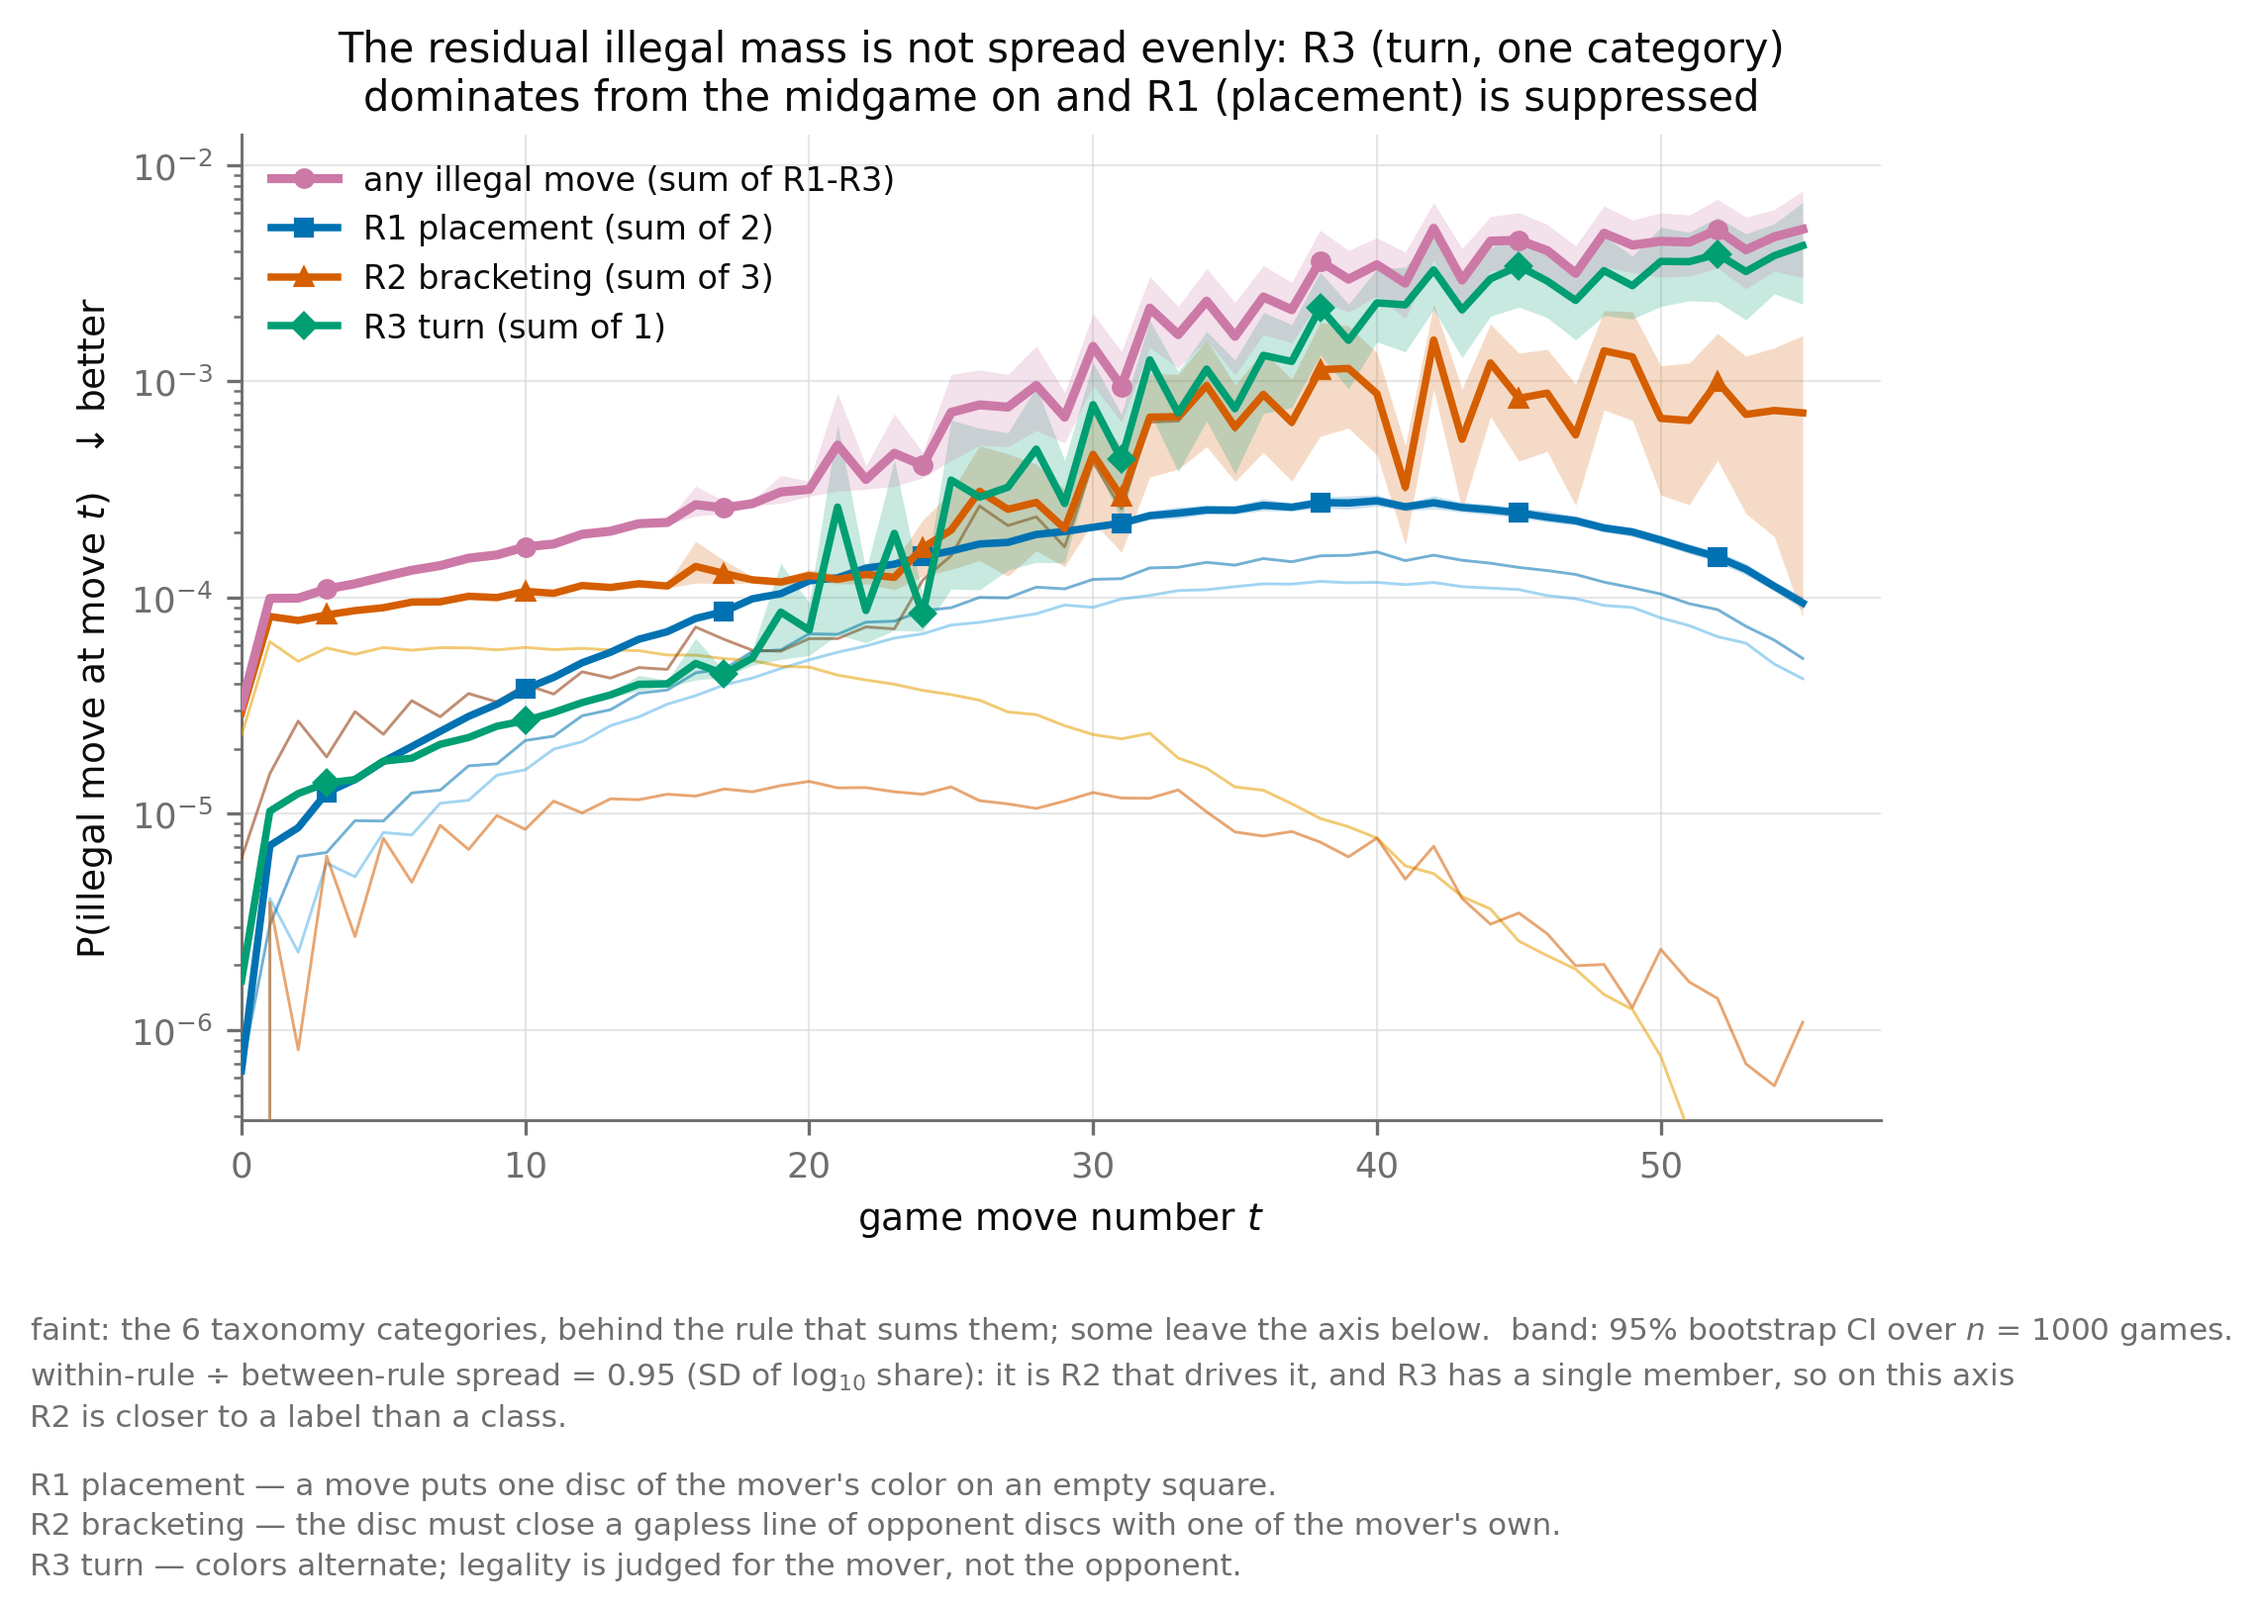
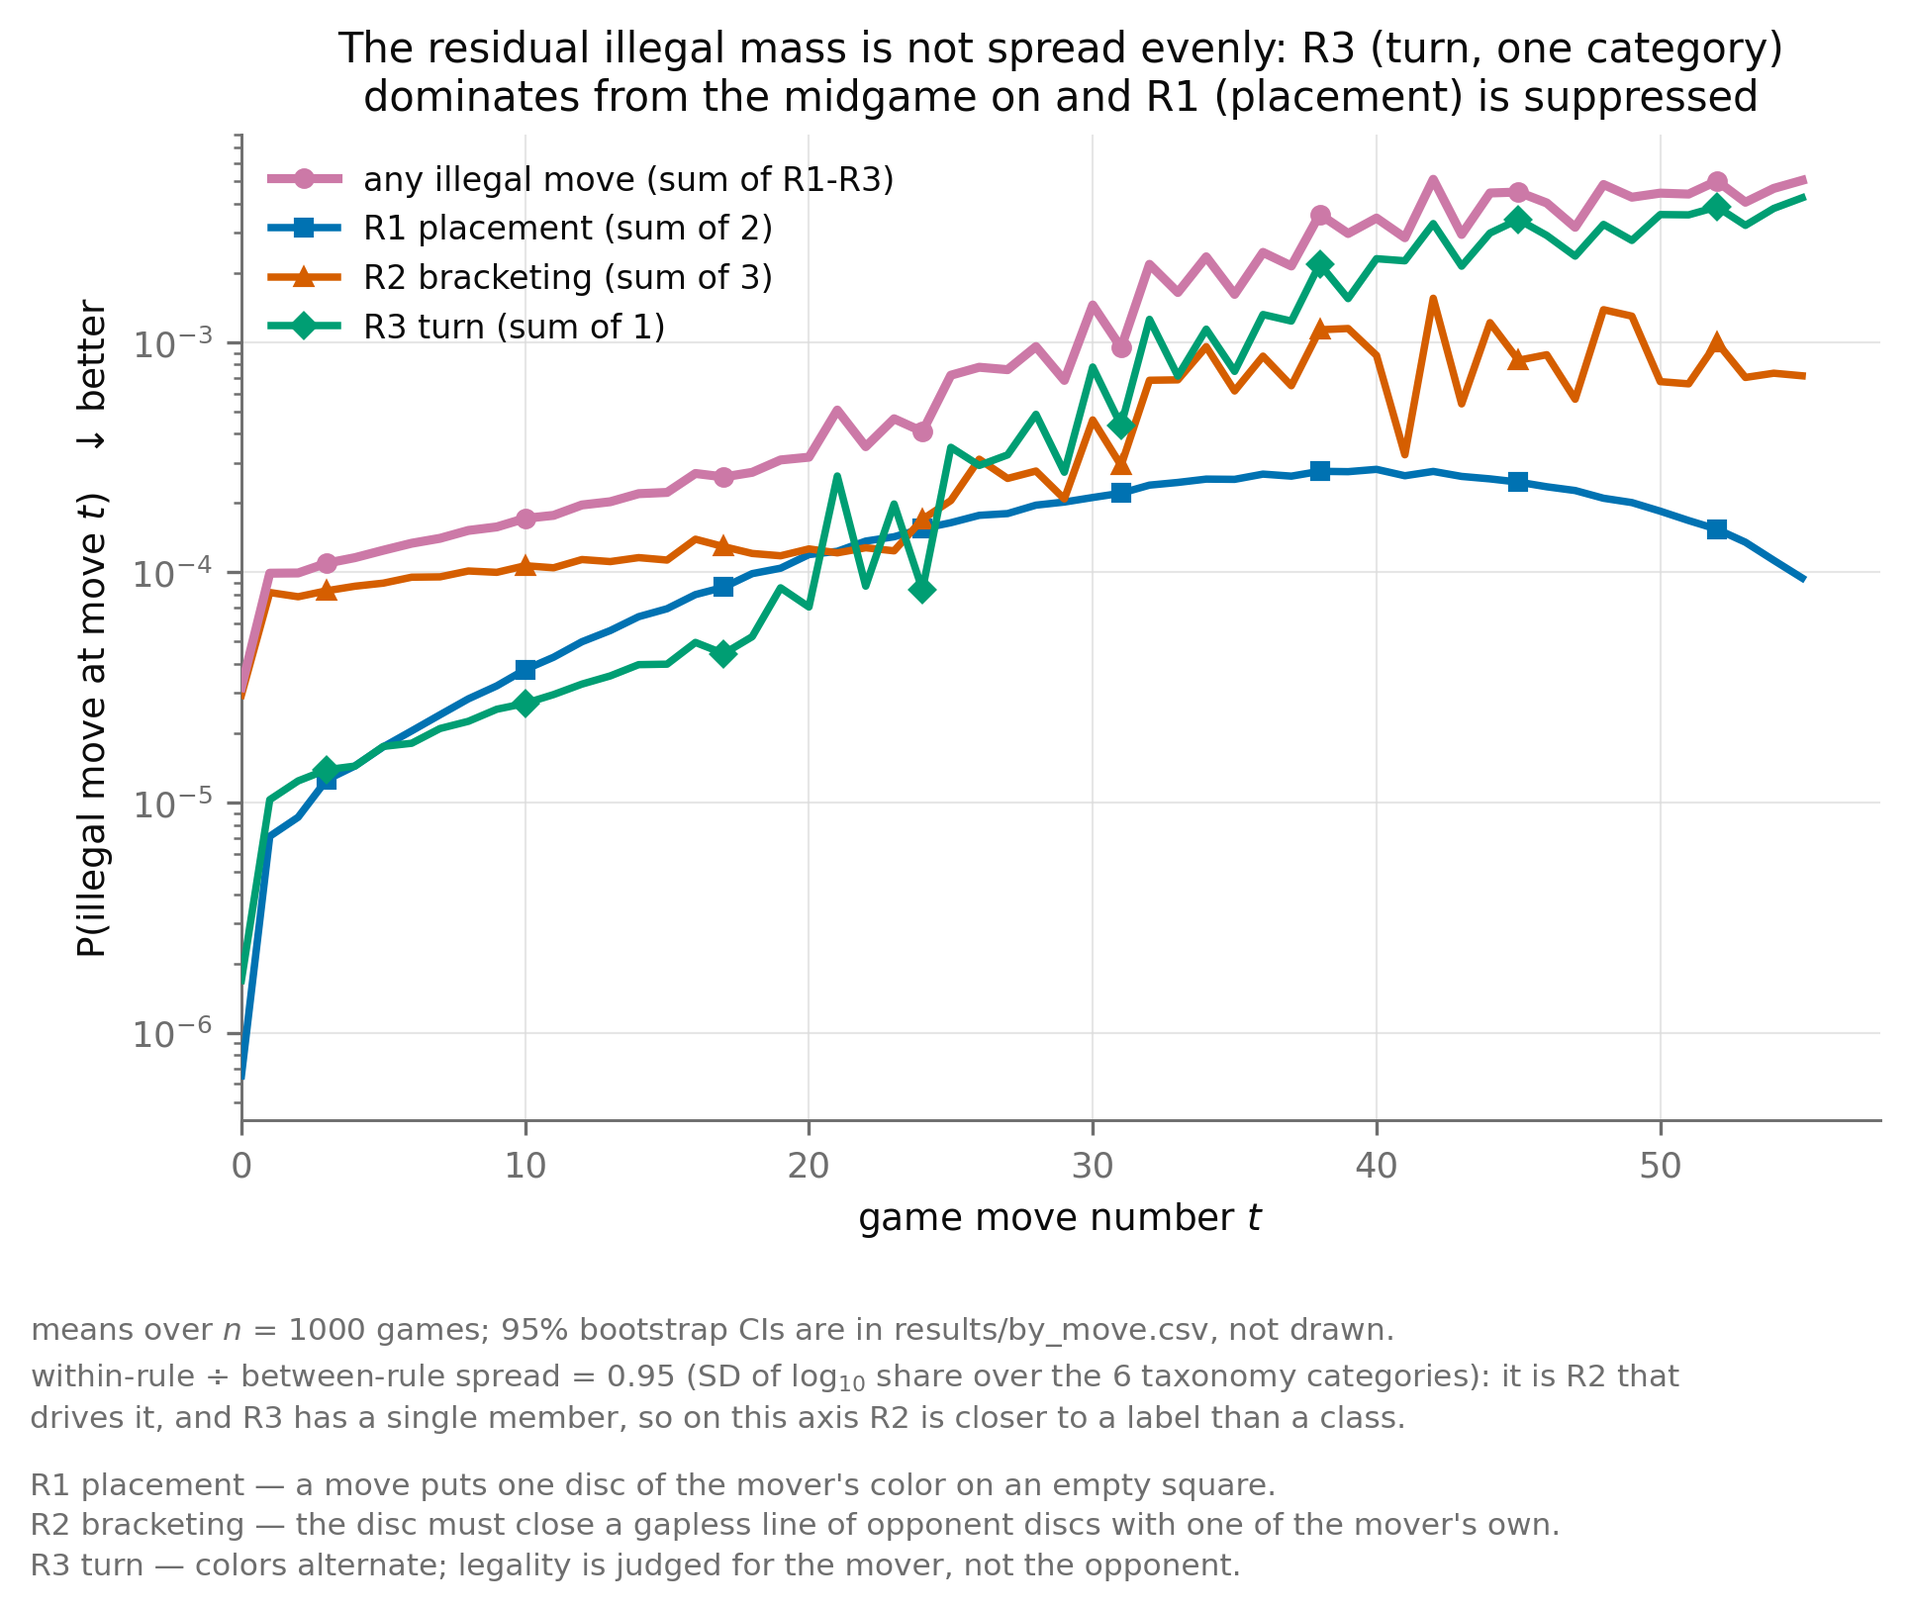
Drop the faint members and the bootstrap bands from the rule figures
Requested: the panels carry the four rule curves alone. This departs from
FIGURE_GUIDELINES 1.2 on purpose, so the note on every panel now names the CSV its lo/hi
columns live in — nothing stopped being measured, and the members' story survives as the
printed within-rule / between-rule spread they existed to justify.

diff --git a/analysis/generation_legality/make_figures.py b/analysis/generation_legality/make_figures.py
@@ -37,7 +37,7 @@ import pandas as pd
 from matplotlib.ticker import FuncFormatter
 
 from spade.figures.paper_style import (
-    CATEGORY_STYLE, GENERATION_STYLE, MUTED, RULE_STYLE, apply_style, rule_key, save_figure)
+    GENERATION_STYLE, MUTED, RULE_STYLE, apply_style, rule_key, save_figure)
 from spade.othello.taxonomy import RULE_MEMBERS
 
 HERE = Path(__file__).resolve().parent
@@ -63,11 +63,15 @@ def read(results: Path) -> dict[str, pd.DataFrame]:
             for n in ["by_move", "rollout_by_move", "survival", "overall"]}
 
 
-def band(ax, x, frame: pd.DataFrame, style: dict, label: str, value: str = "mean", **kw):
-    """Point curve with its bootstrap band, markers thinned to MARKS."""
+def curve(ax, x, frame: pd.DataFrame, style: dict, label: str, value: str = "mean", **kw):
+    """Point curve, markers thinned to MARKS. No band: the intervals are in the CSVs.
+
+    Dropping the drawn interval is a deliberate departure from FIGURE_GUIDELINES 1.2, which
+    wants every claim-supporting curve to carry its uncertainty. Every `lo`/`hi` column is
+    still computed and written, and each panel says where; nothing was stopped being
+    measured.
+    """
     every = max(1, len(x) // MARKS)
-    ax.fill_between(x, frame.lo, frame.hi, color=style["color"], alpha=0.22, lw=0,
-                    zorder=kw.get("zorder", 3) - 1)
     return ax.plot(x, frame[value], color=style["color"], ls=style.get("ls", "-"),
                    marker=style["marker"], ms=4, markevery=(every // 2, every),
                    label=label, **kw)[0]
@@ -87,7 +91,7 @@ def figure_one(tables: dict[str, pd.DataFrame], camera_ready: bool) -> Path:
                                ("free_running", (-6, 7), "right")]:
         rows, style = table[table.arm == arm].sort_values("plies"), GENERATION_STYLE[arm]
         end = rows.iloc[-1]
-        band(ax, rows.plies, rows, style,
+        curve(ax, rows.plies, rows, style,
              f"{style['label']} ($n$ = {int(rows.n_games.iloc[0])} games)",
              value="value", zorder=5 if arm == "free_running" else 4)
         ax.annotate(f"{end.value:.1%}", (end.plies, end.value), textcoords="offset points",
@@ -97,8 +101,9 @@ def figure_one(tables: dict[str, pd.DataFrame], camera_ready: bool) -> Path:
     ax.set_ylabel("P(at least one illegal move by move $t$)   ↓ better")
     ax.set_ylim(bottom=0)
     ax.set_xlim(left=0)
-    ax.text(0.03, 0.97, "band: 95% percentile bootstrap CI over games (2000 resamples)\n"
-            "cumulative, so the curve can only rise", transform=ax.transAxes, va="top", **NOTE)
+    ax.text(0.03, 0.97, "cumulative, so the curve can only rise\n"
+            "95% bootstrap CIs are in results/survival.csv, not drawn",
+            transform=ax.transAxes, va="top", **NOTE)
     ax.legend(loc="upper left", bbox_to_anchor=(0.0, 0.86), fontsize=8)
     if not camera_ready:
         legal = tables["overall"].set_index("metric").value["p_legal"]
@@ -121,15 +126,11 @@ def rules_figure(tables: dict[str, pd.DataFrame], source: str, camera_ready: boo
     by_move = tables[source]
 
     total = move_series(by_move, "p_illegal")
-    band(ax, total.t, total, GENERATION_STYLE["mass"], GENERATION_STYLE["mass"]["label"],
-         zorder=6, lw=2.2)
+    curve(ax, total.t, total, GENERATION_STYLE["mass"], GENERATION_STYLE["mass"]["label"],
+          zorder=6, lw=2.2)
     for key, (rule, members) in RULES.items():
-        for category in members:
-            faint = move_series(by_move, f"p_{category}")
-            ax.plot(faint.t, faint["mean"], color=CATEGORY_STYLE[category]["color"],
-                    lw=0.7, alpha=0.55, zorder=3)
         rows = move_series(by_move, f"p_{key}")
-        band(ax, rows.t, rows, RULE_STYLE[rule], f"{rule} (sum of {len(members)})", zorder=5)
+        curve(ax, rows.t, rows, RULE_STYLE[rule], f"{rule} (sum of {len(members)})", zorder=5)
 
     ax.set_yscale("log")
     ax.yaxis.set_major_formatter(
@@ -137,20 +138,15 @@ def rules_figure(tables: dict[str, pd.DataFrame], source: str, camera_ready: boo
     ax.set_xlabel("game move number $t$")
     ax.set_ylabel("P(illegal move at move $t$)   ↓ better")
     ax.set_xlim(left=0)
-    # Floor from the rule curves, not the members: `empty_detached` decays four decades
-    # below R2 by the endgame and would otherwise set the axis for the whole panel.
-    floor = min(move_series(by_move, f"p_{k}").lo.min() for k in RULES)
-    ax.set_ylim(bottom=floor * 0.6)
     spread_key = "rollout_mass_within_over_between" if rollout else "rule_mass_within_over_between"
     spread = float(tables["overall"].set_index("metric").value[spread_key])
     n_note = (f"the games still legal at each $t$, $n$ falling {int(total.n_games.iloc[0])} "
               f"$\\rightarrow$ {int(total.n_games.iloc[-1])}"
               if rollout else f"$n$ = {int(total.n_games.iloc[0])} games")
-    note = ("faint: the 6 taxonomy categories, behind the rule that sums them; some leave the "
-            f"axis below.  band: 95% bootstrap CI over {n_note}.\n"
-            f"within-rule ÷ between-rule spread = {spread:.2f} (SD of log$_{{10}}$ share): "
-            "it is R2 that drives it, and R3 has a single member, so on this axis\n"
-            "R2 is closer to a label than a class.")
+    note = (f"means over {n_note}; 95% bootstrap CIs are in results/{source}.csv, not drawn.\n"
+            f"within-rule ÷ between-rule spread = {spread:.2f} (SD of log$_{{10}}$ share over "
+            "the 6 taxonomy categories): it is R2 that\ndrives it, and R3 has a single "
+            "member, so on this axis R2 is closer to a label than a class.")
     ax.legend(loc="upper left", fontsize=8)
     if rollout:
         note += ("\nconditional on survival: a rollout leaves the table at its first illegal "

diff --git a/analysis/generation_legality/README.md b/analysis/generation_legality/README.md
@@ -139,12 +139,9 @@ games (2000 resamples).
 the illegal squares the way the board offers them: R3 (turn confusion) dominates from the
 midgame on and R1 (placement) is suppressed.** P(illegal move at move *t*) against move
 number, split into the three constraint rules, on a log axis, with `any illegal` as the
-reference. The six taxonomy categories are drawn faint behind the rule that sums them, and
-the rule series are **sums**, not means, so the legend says `sum of 3`
-(FIGURE_GUIDELINES 1.7). The axis floor comes from the rule curves, so a faint member —
-`empty_detached` decays four decades below R2 by the endgame — leaves the axis rather than
-setting it for the whole panel. The within-rule ÷ between-rule spread of 0.95 is printed
-under the panel with the reason: on this axis R2 is a label and R1 is a class.
+reference. The rule series are **sums** over their taxonomy categories, not means, so the legend says
+`sum of 3` (FIGURE_GUIDELINES 1.7), and the within-rule ÷ between-rule spread of 0.95 is
+printed under the panel: on this axis R2 is a label and R1 is a class.
 
 There is no skew, density or played-rate panel. Those measurements were
 not deleted with their panels — `rule_skew.csv`, `played_rate.csv` and `overall.csv` still
@@ -160,6 +157,14 @@ the R1 suppression are unchanged. The late deficit is **survivorship, not the mo
 better** — a rollout leaves the table at its first illegal move, and the games that leave are
 the ones carrying the most illegal mass. n falls 1000 → 891 across the axis and the panel
 prints it. Its own within-rule ÷ between-rule spread is 0.89, the same story as F2's 0.95.
+
+**Neither the six taxonomy members nor the bootstrap bands are drawn**, by request: the
+panels carry the four rule curves alone. This is a deliberate departure from
+FIGURE_GUIDELINES 1.2, which wants every claim-supporting curve to carry its uncertainty.
+Nothing stopped being measured — every `lo`/`hi` column is still computed and written, and
+each panel names the file it lives in (`by_move.csv`, `rollout_by_move.csv`,
+`survival.csv`). The members' story survives as the printed spread, which is the number they
+were there to justify.
 
 Why this is worth having: F2 alone is a statement about a prefix distribution the model is
 never in once it starts playing. F3 says the by-rule picture survives self-conditioning,
